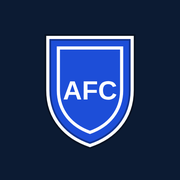
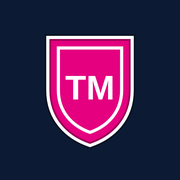
チーム名をテゲバジャーロ宮崎に、エンブレムをピンクのTMに。1試合20問（前半10・後半10）に
Claude-Session: https://claude.ai/code/session_01L248KDAhqnShPatybX8eoy

Changed region(s): [[0.25, 0.1944, 0.75, 0.8056]]

diff --git a/sansu/index.html b/sansu/index.html
@@ -57,8 +57,8 @@ h1 small{display:block;font-size:12px;color:#9fb0cc;font-weight:500;margin-top:2
 .goalL,.goalR{position:absolute;top:8px;bottom:8px;width:6px;background:#fff}
 .goalL{left:0}.goalR{right:0}
 .ball{position:absolute;top:50%;left:50%;font-size:20px;transform:translate(-50%,-50%);transition:left .6s cubic-bezier(.3,.8,.4,1)}
-.dots{display:flex;gap:5px;justify-content:center;margin-top:8px}
-.dots i{width:9px;height:9px;border-radius:50%;background:#2a3a58}
+.dots{display:flex;flex-wrap:wrap;gap:4px;justify-content:center;margin-top:8px}
+.dots i{width:8px;height:8px;border-radius:50%;background:#2a3a58}
 .dots i.ok{background:#3ddc84}.dots i.ng{background:var(--red)}.dots i.now{background:#fff}
 .timer{height:8px;background:#2a3a58;border-radius:4px;margin-top:10px;overflow:hidden}
 .timer div{height:100%;background:var(--gold);width:100%}
@@ -218,9 +218,9 @@ const TEAMS=[
 ["チリ","🇨🇱",1456.40]
 ].map(([name,flag,pts])=>({name,flag,pts}));
 const START_PTS=1440, K=25, DAILY=3;
-const DEF_CREST={c1:'#1d4ed8',c2:'#ffffff',txt:'AFC'};
+const DEF_CREST={c1:'#e4007f',c2:'#ffffff',txt:'TM'};
 const esc=s=>String(s).replace(/[&<>"']/g,c=>({'&':'&amp;','<':'&lt;','>':'&gt;','"':'&quot;',"'":'&#39;'}[c]));
-function sharedCrest(){try{const k=JSON.parse(localStorage.getItem('kotobaWC_v1'));if(k&&k.crest)return k.crest}catch(e){}return DEF_CREST}
+function sharedCrest(){try{const k=JSON.parse(localStorage.getItem('kotobaWC_v1'));if(k&&k.crest&&!(k.crest.txt==='AFC'&&k.crest.c1==='#1d4ed8'))return k.crest}catch(e){}return DEF_CREST}
 function crest(sz=40,c){c=c||sharedCrest();const t=esc(c.txt||'');const fs=[...(c.txt||'')].length>=3?10:13;
  return `<svg width="${sz}" height="${Math.round(sz*1.15)}" viewBox="0 0 40 46" aria-hidden="true"><path d="M4 3h32v20c0 11-7 18-16 21C11 41 4 34 4 23z" fill="${c.c1}" stroke="#0005" stroke-width="2.5"/><path d="M4 3h32v20c0 11-7 18-16 21C11 41 4 34 4 23z" fill="none" stroke="${c.c2}" stroke-width="1.2"/><path d="M8 7h24v16c0 8-5 13.5-12 16-7-2.5-12-8-12-16z" fill="none" stroke="${c.c2}" stroke-width="1.2"/><text x="20" y="26.5" text-anchor="middle" font-family="Arial Black,Arial,sans-serif" font-weight="900" font-size="${fs}" fill="${c.c2}">${t}</text></svg>`}
 const crestInline=sz=>`<span class="crest" style="display:inline-block;vertical-align:middle">${crest(sz)}</span>`;
@@ -299,7 +299,7 @@ function wordify(q){
 
 /* ===== セーブ ===== */
 let S;
-function load(){try{S=JSON.parse(localStorage.getItem('calcWC_v1'))}catch(e){}if(!S||typeof S.pts!=='number')S={name:'あざみ野FC',pts:START_PTS,cleared:{},best:{},slow:false,lv:3};if(S.name==='サムライキッズ'||S.name==='ヤマルキッズ')S.name='あざみ野FC';if(!S.lv)S.lv=3;S.legs=S.legs||{};S.weak=S.weak||[];if(!S.seed35){if(S.pts<1535)S.pts=1535;for(let i=0;i<4;i++)S.cleared[i]=true;S.seed35=true;try{localStorage.setItem('calcWC_v1',JSON.stringify(S))}catch(e){}}S.daily=S.daily||{date:'',n:0};S.streak=S.streak||{last:'',n:0}}
+function load(){try{S=JSON.parse(localStorage.getItem('calcWC_v1'))}catch(e){}if(!S||typeof S.pts!=='number')S={name:'テゲバジャーロ宮崎',pts:START_PTS,cleared:{},best:{},slow:false,lv:3};if(S.name==='サムライキッズ'||S.name==='ヤマルキッズ')S.name='テゲバジャーロ宮崎';if(!S.lv)S.lv=3;S.legs=S.legs||{};S.weak=S.weak||[];if(!S.seed35){if(S.pts<1535)S.pts=1535;for(let i=0;i<4;i++)S.cleared[i]=true;S.seed35=true;try{localStorage.setItem('calcWC_v1',JSON.stringify(S))}catch(e){}}S.daily=S.daily||{date:'',n:0};S.streak=S.streak||{last:'',n:0}}
 const dstr=d=>`${d.getFullYear()}-${d.getMonth()+1}-${d.getDate()}`;
 const today=()=>dstr(new Date());
 const yesterday=()=>{const d=new Date();d.setDate(d.getDate()-1);return dstr(d)};
@@ -372,7 +372,7 @@ function renderHome(){
   });
   stages.innerHTML=h;
 }
-tname.addEventListener('change',()=>{S.name=tname.value.trim()||'あざみ野FC';save()});
+tname.addEventListener('change',()=>{S.name=tname.value.trim()||'テゲバジャーロ宮崎';save()});
 slow.addEventListener('change',()=>{S.slow=slow.checked;save();renderHome()});
 function resetAll(){overlay(`<h3>さいしょからやり直す？</h3><p class="mut">ランキングとクリア記録が消えます。</p><div class="row" style="justify-content:center"><button class="btn" onclick="closeOver()">やめる</button><button class="btn pri" onclick="doReset()">やり直す</button></div>`)}
 function doReset(){S={name:S.name,pts:START_PTS,cleared:{},best:{},slow:S.slow,lv:3,legs:{},daily:{date:'',n:0},streak:S.streak};save();closeOver();renderHome()}
@@ -393,10 +393,10 @@ function startMatch(si){
   if(usedToday()>=DAILY){overlay(`<h3>今日は${DAILY}ステージ突破！</h3><p class="mut">おつかれさま。選手たちは休養中。また明日キックオフしよう⚽</p><button class="btn pri" onclick="closeOver()">OK</button>`);return}
   const lg=S.legs[si],leg=lg?2:1;
   const opp=(lg&&TEAMS.find(t=>t.name===lg.opp))||oppFor(S.pts);
-  M={si,opp,leg,a0:lg?{my:lg.my,op:lg.op}:{my:0,op:0},orank:realRank(opp),i:0,my:0,op:0,res:[],missed:[],phase:'reg',pkI:0,pkMy:0,ht:false,locked:true,ratios:[],times:[],tos:0,wpIdx:R(1,9)};crestMatch.innerHTML=crest(28);
+  M={si,opp,leg,a0:lg?{my:lg.my,op:lg.op}:{my:0,op:0},orank:realRank(opp),i:0,my:0,op:0,res:[],missed:[],phase:'reg',pkI:0,pkMy:0,ht:false,locked:true,ratios:[],times:[],tos:0,wpIdx:R(1,19)};crestMatch.innerHTML=crest(28);
   mMy.textContent=S.name;mOp.textContent=opp.name;mOpF.textContent=opp.flag;sMy.textContent=0;sOp.textContent=0;comm.textContent='';
   ball.style.left='50%';show('match');
-  overlay(`<div style="font-size:44px">${crestInline(44)} vs ${opp.flag}</div><h3 style="margin:6px 0">${S.name} vs ${opp.name}</h3><p class="mut">ステージ${si+1}「${STAGES[si].name}」<br>FIFAランク${M.orank}位 ${starsOf(M.orank)}<br>レベル ${effLv()}：${LV_NAME[effLv()-1]}${oppBoost(M.orank)?`（強豪国でむずかしさ+${oppBoost(M.orank)}）`:''}　全10問（前半5・後半5）<br>${leg===1?'第1戦（ホーム）':`第2戦（アウェイ）・第1戦は ${M.a0.my}-${M.a0.op}`}<br>正解＝ゴール、まちがい＝失点！時間はたっぷり、じっくり考えよう</p><button class="btn pri" onclick="kickoff()">キックオフ！</button>`);
+  overlay(`<div style="font-size:44px">${crestInline(44)} vs ${opp.flag}</div><h3 style="margin:6px 0">${S.name} vs ${opp.name}</h3><p class="mut">ステージ${si+1}「${STAGES[si].name}」<br>FIFAランク${M.orank}位 ${starsOf(M.orank)}<br>レベル ${effLv()}：${LV_NAME[effLv()-1]}${oppBoost(M.orank)?`（強豪国でむずかしさ+${oppBoost(M.orank)}）`:''}　全20問（前半10・後半10）<br>${leg===1?'第1戦（ホーム）':`第2戦（アウェイ）・第1戦は ${M.a0.my}-${M.a0.op}`}<br>正解＝ゴール、まちがい＝失点！時間はたっぷり、じっくり考えよう</p><button class="btn pri" onclick="kickoff()">キックオフ！</button>`);
 }
 function kickoff(){
   const t=today();if(S.daily.date!==t)S.daily={date:t,n:0};
@@ -406,8 +406,8 @@ function kickoff(){
 function nextQ(){
   if(M.phase==='reg'){
     if(M.rev){if(M.i>=M.rq.length)return finishRevenge()}
-    else if(M.i===5&&!M.ht){M.ht=true;overlay(`<h3>ハーフタイム</h3><div class="big">${M.my} - ${M.op}</div><button class="btn pri" onclick="closeOver();nextQ()">後半キックオフ</button>`);return}
-    if(!M.rev&&M.i===10){
+    else if(M.i===10&&!M.ht){M.ht=true;overlay(`<h3>ハーフタイム</h3><div class="big">${M.my} - ${M.op}</div><button class="btn pri" onclick="closeOver();nextQ()">後半キックオフ</button>`);return}
+    if(!M.rev&&M.i===20){
       if(M.leg===1||M.my+M.a0.my!==M.op+M.a0.op)return finish();
       M.phase='pk';overlay(`<h3>2試合の合計が同点！PK戦へ</h3><p class="mut">3問中2問正解で勝ち！</p><button class="btn pri" onclick="closeOver();nextQ()">PKスタート</button>`);return;
     }
@@ -419,14 +419,14 @@ function nextQ(){
   const paper=!M.rev&&STAGES[M.si].paper;
   q.limit=Math.max(8,Math.round(q.t*timeFactor(M.orank)*(M.rev?1.3:LV_T[S.lv-1])*(paper?1.5:1)*(S.slow?2:1)));
   M.q=q;M.input='';M.locked=false;
-  halfLab.textContent=M.rev?`苦手リベンジ ${M.i+1} / ${M.rq.length}問目`:(M.leg===2?`合計 ${M.my+M.a0.my}-${M.op+M.a0.op} ・ `:'第1戦 ・ ')+(M.phase==='pk'?`PK戦 ${M.pkI+1}本目（成功 ${M.pkMy}）`:(M.i<5?'前半':'後半')+` ${M.i+1}問目`);
+  halfLab.textContent=M.rev?`苦手リベンジ ${M.i+1} / ${M.rq.length}問目`:(M.leg===2?`合計 ${M.my+M.a0.my}-${M.op+M.a0.op} ・ `:'第1戦 ・ ')+(M.phase==='pk'?`PK戦 ${M.pkI+1}本目（成功 ${M.pkMy}）`:(M.i<10?'前半':'後半')+` ${M.i+1}問目`);
   qlab.textContent=`じっくり考えてOK`+(paper?'　✏ 紙に筆算OK':'')+(q.wp?'　📝 文章題':'');
   document.getElementById('q').innerHTML=q.html+(q.wp?'':' ＝');document.getElementById('q').classList.toggle('small',!!q.small);
   hint.textContent={rem:'あまりがあるときは「あまり」ボタン（例: 7あまり3）',frac:'分数は「/」、帯分数は「と」（例: 1と2/5）',dec:'小数点は「.」',int:''}[q.type];
   comm.textContent='';renderAns();renderDots();renderPad(q.type);startTimer(q.limit);
 }
 function renderDots(){
-  let h='';for(let k=0;k<10;k++){const r=M.res[k];h+=`<i class="${r===1?'ok':r===0?'ng':(k===M.i&&M.phase==='reg'?'now':'')}"></i>`}dots.innerHTML=h;
+  let h='';for(let k=0;k<20;k++){const r=M.res[k];h+=`<i class="${r===1?'ok':r===0?'ng':(k===M.i&&M.phase==='reg'?'now':'')}"></i>`}dots.innerHTML=h;
 }
 function renderAns(){ans.textContent=M.input||'　'}
 function renderPad(type){
@@ -560,6 +560,7 @@ function finish(){
 }
 
 load();
+if(!S.teamV3){if(!S.name||S.name==='あざみ野FC')S.name='テゲバジャーロ宮崎';if(S.crest&&S.crest.txt==='AFC'&&S.crest.c1==='#1d4ed8')S.crest={c1:'#e4007f',c2:'#ffffff',txt:'TM'};S.teamV3=true;save()}
 /* 2026/11/22 時点の記録を反映（1回だけ） */
 if(!S.seedV2){S.pts=Math.max(S.pts,1610);S.cleared=S.cleared||{};for(let i=0;i<7;i++)S.cleared[i]=true;S.seedV2=true;save()}
 renderHome();

diff --git a/eigo/index.html b/eigo/index.html
@@ -58,8 +58,8 @@ h1 small{display:block;font-size:12px;color:#9fb0cc;font-weight:500;margin-top:2
 .goalL,.goalR{position:absolute;top:6px;bottom:6px;width:6px;background:#fff}
 .goalL{left:0}.goalR{right:0}
 .ball{position:absolute;top:50%;left:50%;font-size:17px;transform:translate(-50%,-50%);transition:left .6s cubic-bezier(.3,.8,.4,1)}
-.dots{display:flex;gap:5px;justify-content:center;margin-top:6px}
-.dots i{width:9px;height:9px;border-radius:50%;background:#2a3a58}
+.dots{display:flex;flex-wrap:wrap;gap:4px;justify-content:center;margin-top:6px}
+.dots i{width:8px;height:8px;border-radius:50%;background:#2a3a58}
 .dots i.ok{background:#3ddc84}.dots i.ng{background:var(--red)}.dots i.now{background:#fff}
 .timer{height:8px;background:#2a3a58;border-radius:4px;margin-top:8px;overflow:hidden}
 .timer div{height:100%;background:var(--gold);width:100%}
@@ -253,8 +253,8 @@ const TEAMS=[
 const START_PTS=1440, K=50;
 
 /* ===== エンブレム ===== */
-const DEF_CREST={c1:'#1d4ed8',c2:'#ffffff',txt:'AFC'};
-const C1S=['#1d4ed8','#0ea5e9','#c60b1e','#f97316','#facc15','#16a34a','#7c3aed','#111827','#ffffff'];
+const DEF_CREST={c1:'#e4007f',c2:'#ffffff',txt:'TM'};
+const C1S=['#e4007f','#1d4ed8','#0ea5e9','#c60b1e','#f97316','#facc15','#16a34a','#7c3aed','#111827','#ffffff'];
 const C2S=['#ffffff','#facc15','#111827','#c60b1e','#1d4ed8'];
 const esc=s=>String(s).replace(/[&<>"']/g,c=>({'&':'&amp;','<':'&lt;','>':'&gt;','"':'&quot;',"'":'&#39;'}[c]));
 function crest(sz=40,c){c=c||S.crest||DEF_CREST;const t=esc(c.txt||'');const fs=[...(c.txt||'')].length>=3?10:13;
@@ -942,7 +942,7 @@ function reviewQ(){
 
 /* ===== セーブ ===== */
 let S;
-function load(){try{S=JSON.parse(localStorage.getItem('eigoWC_v1'))}catch(e){}if(!S||typeof S.pts!=='number')S={name:'あざみ野FC',pts:START_PTS,cleared:{},best:{},slow:false,lv:3,weak:{}};if(!S.lv)S.lv=3;if(!S.weak)S.weak={};if(!S.crest)S.crest={...DEF_CREST}}
+function load(){try{S=JSON.parse(localStorage.getItem('eigoWC_v1'))}catch(e){}if(!S||typeof S.pts!=='number')S={name:'テゲバジャーロ宮崎',pts:START_PTS,cleared:{},best:{},slow:false,lv:3,weak:{}};if(!S.lv)S.lv=3;if(!S.weak)S.weak={};if(!S.crest)S.crest={...DEF_CREST}}
 function save(){try{localStorage.setItem('eigoWC_v1',JSON.stringify(S))}catch(e){}}
 
 
@@ -1009,7 +1009,7 @@ function renderHome(){
   });
   stages.innerHTML=h;
 }
-tname.addEventListener('change',()=>{S.name=tname.value.trim()||'あざみ野FC';save()});
+tname.addEventListener('change',()=>{S.name=tname.value.trim()||'テゲバジャーロ宮崎';save()});
 slow.addEventListener('change',()=>{S.slow=slow.checked;save();renderHome()});
 function resetAll(){overlay(`<h3>さいしょからやり直す？</h3><p class="mut">ランキング・クリア記録・にがてリストが消えます（チーム名とエンブレムはそのまま）。</p><div class="row" style="justify-content:center"><button class="btn" onclick="closeOver()">やめる</button><button class="btn pri" onclick="doReset()">やり直す</button></div>`)}
 function doReset(){S={name:S.name,crest:S.crest,pts:START_PTS,cleared:{},best:{},slow:S.slow,lv:3,weak:{}};save();closeOver();renderHome()}
@@ -1040,14 +1040,14 @@ function startMatch(si){
   {const _b=hubBlock();if(_b)return hubBlockMsg(_b)}
   const opp=oppFor(S.pts),st=STAGES[si];
   const hasReview=si>0||Object.keys(S.weak).some(id=>ITEM[id]&&ITEM[id].si<=si);
-  const k=hasReview?R(2,3):0;const pos=new Set(shuffle([...Array(10).keys()]).slice(0,k));
+  const k=hasReview?R(4,6):0;const pos=new Set(shuffle([...Array(20).keys()]).slice(0,k));
   M={si,opp,orank:realRank(opp),i:0,my:0,op:0,res:[],missed:[],phase:'reg',pkI:0,pkMy:0,ht:false,locked:true,ratios:[],times:[],tos:0,pos,used:new Set(),usedW:new Set(),usedR:new Set()};
   crestMatch.innerHTML=crest(28);
   mMy.textContent=S.name;mOp.textContent=opp.name;mOpF.textContent=opp.flag;sMy.textContent=0;sOp.textContent=0;comm.textContent='';
   ball.style.left='50%';show('match');
   const wl=WDS[si].length?WDS[si]:st.wl.slice(0,0);
   overlay(`<div style="font-size:40px">${crestInline(40)} vs ${opp.flag}</div><h3 style="margin:6px 0">${esc(S.name)} vs ${opp.name}</h3>
-  <p class="mut" style="margin:4px 0">ステージ${si+1}「${esc(st.name)}」<br>FIFAランク${M.orank}位 ${starsOf(M.orank)}　レベル ${effLv()}：${LV_NAME[effLv()-1]}${oppBoost(M.orank)?`（強豪国でむずかしさ+${oppBoost(M.orank)}）`:''}<br>全10問（前半5・後半5）　正解＝ゴール！${k?`<br>ふくしゅう問題が ${k}問 まざるよ`:''}</p>
+  <p class="mut" style="margin:4px 0">ステージ${si+1}「${esc(st.name)}」<br>FIFAランク${M.orank}位 ${starsOf(M.orank)}　レベル ${effLv()}：${LV_NAME[effLv()-1]}${oppBoost(M.orank)?`（強豪国でむずかしさ+${oppBoost(M.orank)}）`:''}<br>全20問（前半10・後半10）　正解＝ゴール！${k?`<br>ふくしゅう問題が ${k}問 まざるよ`:''}</p>
   <div class="board2"><div style="font-weight:800;margin-bottom:2px">📋 作戦ボード（文のしくみ）</div><div class="pt">${st.point}</div>
   ${st.ex.map(e=>`<div class="exl" data-say="${esc(e[0])}"><span class="e">${esc(e[2])}</span><span class="s"><b class="en">${esc(e[0])}</b><span>${esc(e[1])}</span></span>🔊</div>`).join('')}
   ${wl.length?`<div style="font-weight:800;margin-top:8px">🔤 このステージの ことば（タップで きける）</div><div class="wchips">${wl.map(id=>{const w=WD[id];return `<button data-say="${esc(w.en)}">${esc(w.e)} <b>${esc(w.en)}</b></button>`}).join('')}</div>`:''}</div>
@@ -1055,8 +1055,8 @@ function startMatch(si){
 }
 function nextQ(){
   if(M.phase==='reg'){
-    if(M.i===5&&!M.ht){M.ht=true;overlay(`<h3>ハーフタイム</h3><div class="big">${M.my} - ${M.op}</div><button class="btn pri" onclick="closeOver();nextQ()">後半キックオフ</button>`);return}
-    if(M.i===10){
+    if(M.i===10&&!M.ht){M.ht=true;overlay(`<h3>ハーフタイム</h3><div class="big">${M.my} - ${M.op}</div><button class="btn pri" onclick="closeOver();nextQ()">後半キックオフ</button>`);return}
+    if(M.i===20){
       if(M.my!==M.op)return finish();
       M.phase='pk';overlay(`<h3>同点！PK戦へ</h3><p class="mut">3問中2問正解で勝ち！</p><button class="btn pri" onclick="closeOver();nextQ()">PKスタート</button>`);return;
     }
@@ -1068,7 +1068,7 @@ function nextQ(){
   if(!q)q=(M.phase==='reg'&&M.i%2===0)?stageWordQ(M.si,M.usedW):stageGramQ(M.si,M.used);
   q.limit=Math.max(8,Math.round(q.t*timeFactor(M.orank)*LV_T[S.lv-1]*(S.slow?2:1)));
   M.q=q;M.locked=false;
-  halfLab.textContent=M.phase==='pk'?`PK戦 ${M.pkI+1}本目（成功 ${M.pkMy}）`:(M.i<5?'前半':'後半')+` ・ ${M.i+1}問目`;
+  halfLab.textContent=M.phase==='pk'?`PK戦 ${M.pkI+1}本目（成功 ${M.pkMy}）`:(M.i<10?'前半':'後半')+` ・ ${M.i+1}問目`;
   qlab.innerHTML=`じっくり考えてOK`+(q.tag?`<span class="qtag">${q.tag}</span>`:'');
   document.getElementById('q').innerHTML=q.q;
   hint.className='hint';hint.textContent='';
@@ -1076,7 +1076,7 @@ function nextQ(){
   if(q.auto)setTimeout(()=>speak(q.auto),250);
 }
 function renderDots(){
-  let h='';for(let k=0;k<10;k++){const r=M.res[k];h+=`<i class="${r===1?'ok':r===0?'ng':(k===M.i&&M.phase==='reg'?'now':'')}"></i>`}dots.innerHTML=h;
+  let h='';for(let k=0;k<20;k++){const r=M.res[k];h+=`<i class="${r===1?'ok':r===0?'ng':(k===M.i&&M.phase==='reg'?'now':'')}"></i>`}dots.innerHTML=h;
 }
 function renderChoices(){
   const q=M.q;
@@ -1160,6 +1160,7 @@ function finish(){
 }
 
 load();
+if(!S.teamV3){if(!S.name||S.name==='あざみ野FC')S.name='テゲバジャーロ宮崎';if(S.crest&&S.crest.txt==='AFC'&&S.crest.c1==='#1d4ed8')S.crest={c1:'#e4007f',c2:'#ffffff',txt:'TM'};S.teamV3=true;save()}
 /* 2026/11/22 時点の記録を反映（1回だけ） */
 if(!S.seedV2){S.pts=Math.max(S.pts,1465.6);S.cleared=S.cleared||{};for(let i=0;i<1;i++)S.cleared[i]=true;S.seedV2=true;save()}
 renderHome();

diff --git a/kokugo/index.html b/kokugo/index.html
@@ -58,8 +58,8 @@ h1 small{display:block;font-size:12px;color:#9fb0cc;font-weight:500;margin-top:2
 .goalL,.goalR{position:absolute;top:6px;bottom:6px;width:6px;background:#fff}
 .goalL{left:0}.goalR{right:0}
 .ball{position:absolute;top:50%;left:50%;font-size:17px;transform:translate(-50%,-50%);transition:left .6s cubic-bezier(.3,.8,.4,1)}
-.dots{display:flex;gap:5px;justify-content:center;margin-top:6px}
-.dots i{width:9px;height:9px;border-radius:50%;background:#2a3a58}
+.dots{display:flex;flex-wrap:wrap;gap:4px;justify-content:center;margin-top:6px}
+.dots i{width:8px;height:8px;border-radius:50%;background:#2a3a58}
 .dots i.ok{background:#3ddc84}.dots i.ng{background:var(--red)}.dots i.now{background:#fff}
 .timer{height:8px;background:#2a3a58;border-radius:4px;margin-top:8px;overflow:hidden}
 .timer div{height:100%;background:var(--gold);width:100%}
@@ -228,8 +228,8 @@ const TEAMS=[
 const START_PTS=1440, K=50;
 
 /* ===== エンブレム ===== */
-const DEF_CREST={c1:'#1d4ed8',c2:'#ffffff',txt:'AFC'};
-const C1S=['#1d4ed8','#0ea5e9','#c60b1e','#f97316','#facc15','#16a34a','#7c3aed','#111827','#ffffff'];
+const DEF_CREST={c1:'#e4007f',c2:'#ffffff',txt:'TM'};
+const C1S=['#e4007f','#1d4ed8','#0ea5e9','#c60b1e','#f97316','#facc15','#16a34a','#7c3aed','#111827','#ffffff'];
 const C2S=['#ffffff','#facc15','#111827','#c60b1e','#1d4ed8'];
 const esc=s=>String(s).replace(/[&<>"']/g,c=>({'&':'&amp;','<':'&lt;','>':'&gt;','"':'&quot;',"'":'&#39;'}[c]));
 function crest(sz=40,c){c=c||S.crest||DEF_CREST;const t=esc(c.txt||'');const fs=[...(c.txt||'')].length>=3?10:13;
@@ -668,7 +668,7 @@ function stageQ(si,used){
 
 /* ===== セーブ ===== */
 let S;
-function load(){try{S=JSON.parse(localStorage.getItem('kotobaWC_v1'))}catch(e){}if(!S||typeof S.pts!=='number')S={name:'あざみ野FC',pts:START_PTS,cleared:{},best:{},slow:false,lv:3};if(!S.lv)S.lv=3;if(!S.crest)S.crest={...DEF_CREST}}
+function load(){try{S=JSON.parse(localStorage.getItem('kotobaWC_v1'))}catch(e){}if(!S||typeof S.pts!=='number')S={name:'テゲバジャーロ宮崎',pts:START_PTS,cleared:{},best:{},slow:false,lv:3};if(!S.lv)S.lv=3;if(!S.crest)S.crest={...DEF_CREST}}
 function save(){try{localStorage.setItem('kotobaWC_v1',JSON.stringify(S))}catch(e){}}
 
 
@@ -734,7 +734,7 @@ function renderHome(){
   });
   stages.innerHTML=h;
 }
-tname.addEventListener('change',()=>{S.name=tname.value.trim()||'あざみ野FC';save()});
+tname.addEventListener('change',()=>{S.name=tname.value.trim()||'テゲバジャーロ宮崎';save()});
 slow.addEventListener('change',()=>{S.slow=slow.checked;save();renderHome()});
 function resetAll(){overlay(`<h3>さいしょからやり直す？</h3><p class="mut">ランキングとクリア記録が消えます（チーム名とエンブレムはそのまま）。</p><div class="row" style="justify-content:center"><button class="btn" onclick="closeOver()">やめる</button><button class="btn pri" onclick="doReset()">やり直す</button></div>`)}
 function doReset(){S={name:S.name,crest:S.crest,pts:START_PTS,cleared:{},best:{},slow:S.slow,lv:3};save();closeOver();renderHome()}
@@ -764,17 +764,17 @@ const CM_NG=['うわっ、失点…','カウンターをくらった…','相手
 function startMatch(si){
   {const _b=hubBlock();if(_b)return hubBlockMsg(_b)}
   const opp=oppFor(S.pts),st=STAGES[si];
-  const k=st.read?2:R(2,3);const pos=new Set(shuffle([...Array(10).keys()]).slice(0,k));
+  const k=st.read?4:R(4,6);const pos=new Set(shuffle([...Array(20).keys()]).slice(0,k));
   M={si,opp,orank:realRank(opp),i:0,my:0,op:0,res:[],missed:[],phase:'reg',pkI:0,pkMy:0,ht:false,locked:true,ratios:[],times:[],tos:0,pos,used:new Set(),usedP:new Set()};
   crestMatch.innerHTML=crest(28);
   mMy.textContent=S.name;mOp.textContent=opp.name;mOpF.textContent=opp.flag;sMy.textContent=0;sOp.textContent=0;comm.textContent='';
   ball.style.left='50%';show('match');
-  overlay(`<div style="font-size:44px">${crestInline(44)} vs ${opp.flag}</div><h3 style="margin:6px 0">${esc(S.name)} vs ${opp.name}</h3><p class="mut">ステージ${si+1}「${st.name}」<br>FIFAランク${M.orank}位 ${starsOf(M.orank)}<br>レベル ${effLv()}：${LV_NAME[effLv()-1]}${oppBoost(M.orank)?`（強豪国でむずかしさ+${oppBoost(M.orank)}）`:''}　全10問（前半5・後半5）<br>正解＝ゴール、まちがい＝失点！時間はたっぷり、じっくり考えよう<br>ことわざ・四字熟語が${k}問まざるよ</p><button class="btn pri" onclick="closeOver();nextQ()">キックオフ！</button>`);
+  overlay(`<div style="font-size:44px">${crestInline(44)} vs ${opp.flag}</div><h3 style="margin:6px 0">${esc(S.name)} vs ${opp.name}</h3><p class="mut">ステージ${si+1}「${st.name}」<br>FIFAランク${M.orank}位 ${starsOf(M.orank)}<br>レベル ${effLv()}：${LV_NAME[effLv()-1]}${oppBoost(M.orank)?`（強豪国でむずかしさ+${oppBoost(M.orank)}）`:''}　全20問（前半10・後半10）<br>正解＝ゴール、まちがい＝失点！時間はたっぷり、じっくり考えよう<br>ことわざ・四字熟語が${k}問まざるよ</p><button class="btn pri" onclick="closeOver();nextQ()">キックオフ！</button>`);
 }
 function nextQ(){
   if(M.phase==='reg'){
-    if(M.i===5&&!M.ht){M.ht=true;overlay(`<h3>ハーフタイム</h3><div class="big">${M.my} - ${M.op}</div><button class="btn pri" onclick="closeOver();nextQ()">後半キックオフ</button>`);return}
-    if(M.i===10){
+    if(M.i===10&&!M.ht){M.ht=true;overlay(`<h3>ハーフタイム</h3><div class="big">${M.my} - ${M.op}</div><button class="btn pri" onclick="closeOver();nextQ()">後半キックオフ</button>`);return}
+    if(M.i===20){
       if(M.my!==M.op)return finish();
       M.phase='pk';overlay(`<h3>同点！PK戦へ</h3><p class="mut">3問中2問正解で勝ち！</p><button class="btn pri" onclick="closeOver();nextQ()">PKスタート</button>`);return;
     }
@@ -786,7 +786,7 @@ function nextQ(){
   const q=usePool?poolQ(st.tier,M.usedP):stageQ(M.si,M.used);
   q.limit=Math.max(8,Math.round(q.t*timeFactor(M.orank)*LV_T[S.lv-1]*(S.slow?2:1)));
   M.q=q;M.locked=false;
-  halfLab.textContent=M.phase==='pk'?`PK戦 ${M.pkI+1}本目（成功 ${M.pkMy}）`:(M.i<5?'前半':'後半')+` ・ ${M.i+1}問目`;
+  halfLab.textContent=M.phase==='pk'?`PK戦 ${M.pkI+1}本目（成功 ${M.pkMy}）`:(M.i<10?'前半':'後半')+` ・ ${M.i+1}問目`;
   qlab.innerHTML=`じっくり考えてOK`+(q.tag?`<span class="qtag">${q.tag}</span>`:'');
   psg.innerHTML=q.psg?`<div class="psg">${esc(q.psg)}</div>`:'';
   document.getElementById('q').innerHTML=q.q;
@@ -794,7 +794,7 @@ function nextQ(){
   comm.textContent='';renderDots();renderChoices();startTimer(q.limit);
 }
 function renderDots(){
-  let h='';for(let k=0;k<10;k++){const r=M.res[k];h+=`<i class="${r===1?'ok':r===0?'ng':(k===M.i&&M.phase==='reg'?'now':'')}"></i>`}dots.innerHTML=h;
+  let h='';for(let k=0;k<20;k++){const r=M.res[k];h+=`<i class="${r===1?'ok':r===0?'ng':(k===M.i&&M.phase==='reg'?'now':'')}"></i>`}dots.innerHTML=h;
 }
 function renderChoices(){
   const q=M.q,short=q.kanji||q.choices.every(c=>[...c].length<=3);
@@ -875,6 +875,7 @@ function finish(){
 }
 
 load();
+if(!S.teamV3){if(!S.name||S.name==='あざみ野FC')S.name='テゲバジャーロ宮崎';if(S.crest&&S.crest.txt==='AFC'&&S.crest.c1==='#1d4ed8')S.crest={c1:'#e4007f',c2:'#ffffff',txt:'TM'};S.teamV3=true;save()}
 /* 2026/11/22 時点の記録を反映（1回だけ） */
 if(!S.seedV2){S.pts=Math.max(S.pts,1496);S.cleared=S.cleared||{};for(let i=0;i<2;i++)S.cleared[i]=true;S.seedV2=true;save()}
 renderHome();

diff --git a/index.html b/index.html
@@ -13,7 +13,7 @@ main{max-width:520px;margin:0 auto;padding:16px 14px 30px}
 h1{color:#fff;font-size:22px;margin:4px 0 2px;font-weight:800}
 .sub{color:#9fb0cc;font-size:12px;margin-bottom:12px}
 .card{background:#fff;border-radius:16px;padding:14px;margin-bottom:12px}
-.hero{background:linear-gradient(135deg,var(--red),#e2343f);color:#fff}
+.hero{background:linear-gradient(135deg,#24315e,#5b1a4a);color:#fff}
 .hero .mut{color:#ffe2a8}
 .team{display:flex;align-items:center;gap:10px;font-weight:800;font-size:18px}
 .big{font-size:44px;font-weight:800;color:var(--gold);line-height:1.1}
@@ -127,9 +127,9 @@ const TEAMS=[
 ["マリ","🇲🇱",1474.14],["スロバキア","🇸🇰",1473.06],["南アフリカ","🇿🇦",1468.88],["ベネズエラ","🇻🇪",1465.87],
 ["チリ","🇨🇱",1456.40]
 ].map(([name,flag,pts])=>({name,flag,pts}));
-const DEF_CREST={c1:'#1d4ed8',c2:'#ffffff',txt:'AFC'};
+const DEF_CREST={c1:'#e4007f',c2:'#ffffff',txt:'TM'};
 const esc=s=>String(s).replace(/[&<>"']/g,c=>({'&':'&amp;','<':'&lt;','>':'&gt;','"':'&quot;',"'":'&#39;'}[c]));
-function sharedCrest(){try{const k=JSON.parse(localStorage.getItem('kotobaWC_v1'));if(k&&k.crest)return k.crest}catch(e){}return DEF_CREST}
+function sharedCrest(){try{const k=JSON.parse(localStorage.getItem('kotobaWC_v1'));if(k&&k.crest&&!(k.crest.txt==='AFC'&&k.crest.c1==='#1d4ed8'))return k.crest}catch(e){}return DEF_CREST}
 function crest(sz=40,c){c=c||sharedCrest();const t=esc(c.txt||'');const fs=[...(c.txt||'')].length>=3?10:13;
  return `<svg width="${sz}" height="${Math.round(sz*1.15)}" viewBox="0 0 40 46" aria-hidden="true"><path d="M4 3h32v20c0 11-7 18-16 21C11 41 4 34 4 23z" fill="${c.c1}" stroke="#0005" stroke-width="2.5"/><path d="M4 3h32v20c0 11-7 18-16 21C11 41 4 34 4 23z" fill="none" stroke="${c.c2}" stroke-width="1.2"/><path d="M8 7h24v16c0 8-5 13.5-12 16-7-2.5-12-8-12-16z" fill="none" stroke="${c.c2}" stroke-width="1.2"/><text x="20" y="26.5" text-anchor="middle" font-family="Arial Black,Arial,sans-serif" font-weight="900" font-size="${fs}" fill="${c.c2}">${t}</text></svg>`}
 
@@ -156,7 +156,7 @@ function render(){
   while(hub.days[dstr(d)]){st++;d.setDate(d.getDate()-1)}
   const minPts=Math.min(...ready.map(s=>data[s.id].pts));
   crestBox.innerHTML=crest(36);
-  tname.textContent=(data.sansu.name&&data.sansu.name!=='ヤマルキッズ'?data.sansu.name:'')||data.kokugo.name||'あざみ野FC';
+  tname.textContent=[data.sansu.name,data.kokugo.name,data.eigo.name].find(n=>n&&n!=='ヤマルキッズ'&&n!=='あざみ野FC')||'テゲバジャーロ宮崎';
   total.textContent=rankOf(tp)+'位';tpts.textContent=tp.toFixed(1)+' pt';
   htToday.textContent=ready.every(s=>tday[s.id])?'達成！':`${ready.filter(s=>tday[s.id]).length}/${ready.length}`;
   htDays.textContent=htDayList.length+'日';streak.textContent=st+'日';

diff --git a/sw.js b/sw.js
@@ -1,5 +1,5 @@
 // ワールドカップ学習スタジアム：オフライン用（更新したら VERSION を上げる）
-const VERSION='wcs-v3';
+const VERSION='wcs-v4';
 const FILES=['./','./index.html','./sansu/index.html','./kokugo/index.html','./eigo/index.html','./manifest.webmanifest','./icons/icon-192.png','./icons/icon-512.png','./icons/apple-touch-icon.png'];
 self.addEventListener('install',e=>{e.waitUntil(caches.open(VERSION).then(c=>c.addAll(FILES)).then(()=>self.skipWaiting()))});
 self.addEventListener('activate',e=>{e.waitUntil(caches.keys().then(ks=>Promise.all(ks.filter(k=>k!==VERSION).map(k=>caches.delete(k)))).then(()=>self.clients.claim()))});
